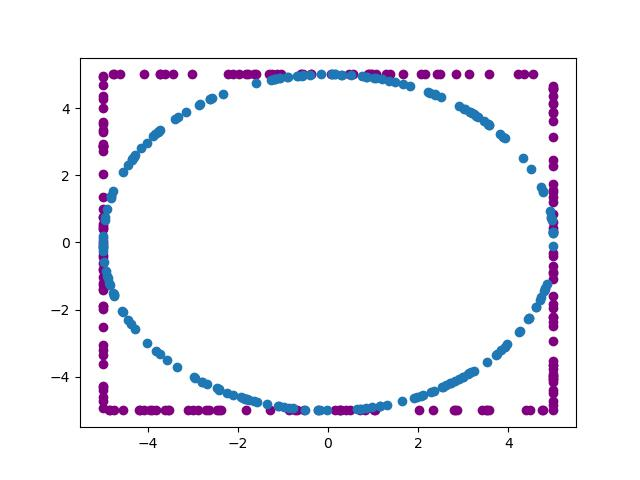
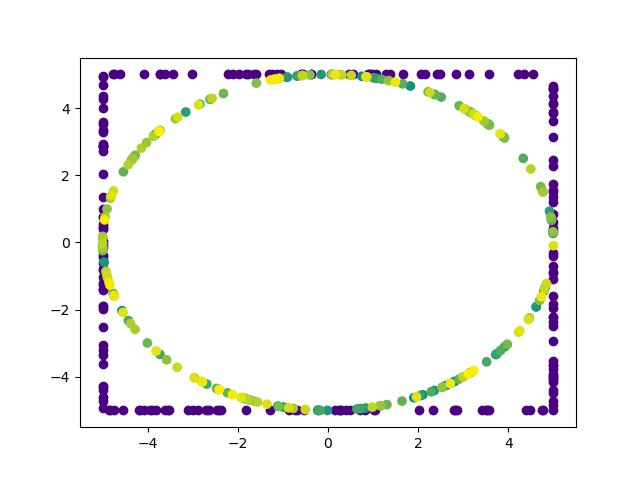
finish code

Changed region(s): [[0.125, 0.125, 0.875, 0.875], [0.8125, 0.75, 0.875, 0.875], [0.75, 0.8438, 0.7812, 0.875]]

diff --git a/Assignment4_1155202866.py b/Assignment4_1155202866.py
@@ -10,37 +10,140 @@ from wordcloud import WordCloud
 
 # Problem 2
 def problem_2(input_csv_list, output="q2.jpg"):
-    # write your logic here
+    all_data = []
 
-    plt.savefig(output) # do not show the plt
+    # Read and append all data to the list
+    for csv_file in input_csv_list:
+        data = pd.read_csv(csv_file, header=None, names=['Test1', 'Test2'])
+        data['Class'] = csv_file
+        all_data.append(data)
+
+    all_data_df = pd.concat(all_data)  # Concatenate all data into a single DataFrame
+
+    fig, axs = plt.subplots(1, 2, figsize=(10, 6))  # Create a subplot for each test
+
+    # Plot the data
+    sns.boxplot(x='Class', y='Test1', data=all_data_df, ax=axs[0])
+    sns.boxplot(x='Class', y='Test2', data=all_data_df, ax=axs[1])
+
+    axs[0].set_title('Test1')
+    axs[1].set_title('Test2')
+    for j in range(2):
+        axs[j].set_ylabel('Score')
+        axs[j].set_ylim(0, 100)
+        axs[j].grid(True)
+
+    fig.suptitle('Test result')
+    plt.tight_layout()  
+    plt.savefig(output, bbox_inches='tight')  # do not show the plt
+    plt.close()
 
 # Problem 3
 def problem_3(filenames, output="q3.jpg"):
     # write your logic here
-
+    cols = 2
+    rows = (len(filenames) + 1)//cols
+    fig, axs = plt.subplots(rows, cols, figsize=(10, rows * 5))
+    for i in range(rows * cols):
+        ax = axs[i//2, i%2]
+        if i < len(filenames):
+            with open(filenames[i], 'r', encoding='utf-8') as f:
+                text = f.read()
+                text = re.sub(r'[^\w\s]', '', text)
+                text = re.sub(r'\d', '', text)
+                text = text.lower()
+                word_cloud = WordCloud(collocations = False, background_color = 'white', random_state=5726).generate(text)
+                ax.imshow(word_cloud, interpolation='bilinear')
+        ax.axis('off')
+    plt.tight_layout()
     plt.savefig(output) # do not show the plt
+    plt.close()
 
 # Problem 4
 def problem_4(df, output="q4.png"):
     # write your logic here
+    df['Boysbackup'] = df['Boys']
+    df['Boys'] = df['Boys'] / ( df['Boys'] + df['Girls'] )
+    df['Girls'] = df['Girls'] / ( df['Boysbackup'] + df['Girls'] )
+    df.drop(columns=['Boysbackup'], inplace=True)
+
+    ax = df.plot(kind='barh', stacked=True, figsize=(10, 5))
+
+    # Label the bars with the percentage values
+    for p in ax.patches:
+        width = p.get_width()
+        plt.text(p.get_x() + width,
+                 p.get_y() + p.get_height()/2,
+                 f'{width:.4f}',
+                 ha='left',
+                 va='center')
+
+    plt.title('Passing Percentage')
+    plt.xticks(np.arange(0, 1.2, 0.2))
+    plt.ylabel('Years')
 
     plt.savefig(output) # do not show the plt
+    plt.close()
+
 
 # Problem 5
+import matplotlib.colors as mcolors
 def problem_5(n=100, r=1, output="q5.jpg"):
     # write your logic here
     random.seed(4320) # for reproducibility
 
+    square_x = []
+    square_y = []
+    circle_x = []
+    circle_y = []
+    
+    for _ in range(n):
+        side = random.randint(1, 4)
+        position = random.uniform(-r, r)
+        if side == 1:
+            square_x.append(position)
+            square_y.append(r)
+        elif side == 2:
+            square_x.append(r)
+            square_y.append(position)
+        elif side == 3:
+            square_x.append(position)
+            square_y.append(-r)
+        else:
+            square_x.append(-r)
+            square_y.append(position)
+    
+    for _ in range(n):
+        angle = random.uniform(0, 2 * np.pi)
+        circle_x.append(r * np.cos(angle))
+        circle_y.append(r * np.sin(angle))
+    
+    plt.figure()
+    plt.scatter(square_x, square_y, c='#4B0082')
+
+    cmap = mcolors.LinearSegmentedColormap.from_list("", ["#008B8B","#FFEE00"])
+    colors = np.linspace(0, 1, len(circle_x))
+    plt.scatter(circle_x, circle_y, c=colors, cmap=cmap, label='Circle Cluster')
+    
     plt.savefig(output)
     # do not show the plt
+    plt.close()
 
 # Problem 6
 def problem_6(data, b=10, output="q6.jpg"):
     # write your logic here, model is the trained ridge model
     random.seed(4320) # for reproducibility
 
+    plt.hist(data, bins=b)
+
+    if np.mean(data) < np.median(data):
+        plt.gca().yaxis.tick_right()
+    else:
+        plt.gca().yaxis.tick_left()
+
     plt.savefig(output)  
     # do not show the plt
+    plt.close()
 
 
 if __name__ == "__main__":
